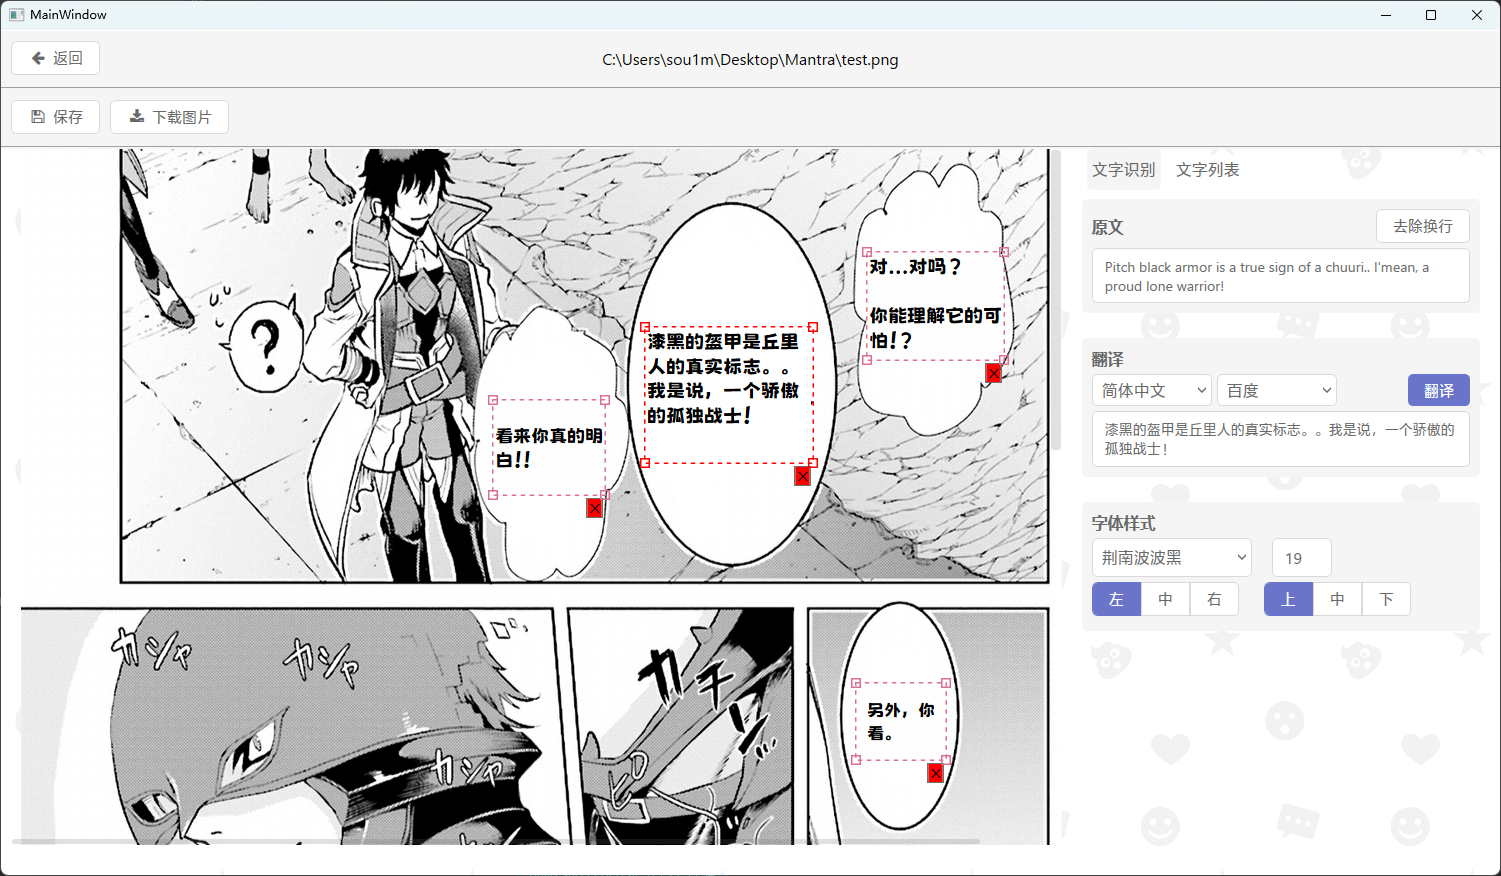
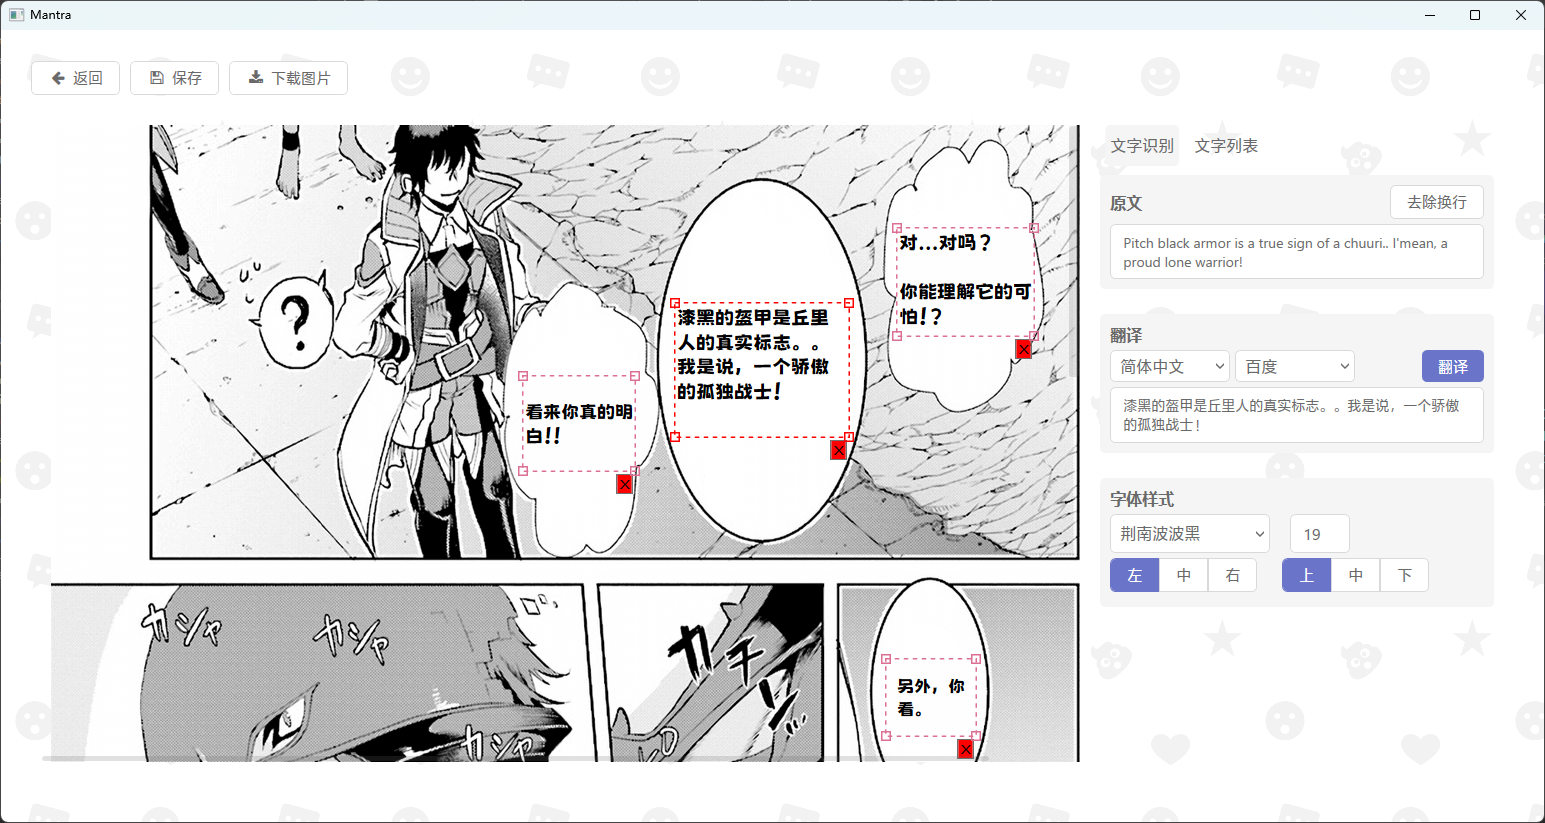
:art: 修改按钮样式

Changed region(s): [[0.0, 0.0608, 0.9807, 0.9721], [0.3984, 0.0608, 0.6129, 0.0911], [0.0, 0.0, 0.0613, 0.0304]]

diff --git a/src/Mantra/Pages/HandlePage.xaml b/src/Mantra/Pages/HandlePage.xaml
@@ -14,46 +14,37 @@
                 d:DesignHeight="450"
                 d:DesignWidth="800">
 
-    <DockPanel LastChildFill="True">
+    <Grid SnapsToDevicePixels="True" Margin="30">
+        <Grid.RowDefinitions>
+            <RowDefinition Height="Auto" />
+            <RowDefinition Height="30 " />
+            <RowDefinition Height="*" />
+        </Grid.RowDefinitions>
 
         <!-- Start: Top Menu -->
-        <StackPanel DockPanel.Dock="Top" ZIndex="1" Background="{StaticResource BackgroundLightBrush}">
-            <Grid SnapsToDevicePixels="True" Margin="10">
-                <Grid.ColumnDefinitions>
-                    <ColumnDefinition Width="Auto" />
-                    <ColumnDefinition Width="*" />
-                </Grid.ColumnDefinitions>
-                <Button Style="{StaticResource IconTextButtonStyle}"
-                        VerticalAlignment="Center"
-                        Content="返回"
-                        Tag="{StaticResource FontAwesomeArrowLeftIcon}"
-                        Command="{Binding GoBackCommand}" />
-                <TextBlock Grid.Column="0"
-                           Grid.ColumnSpan="2"
-                           HorizontalAlignment="Center"
-                           VerticalAlignment="Center"
-                           FontSize="16"
-                           Text="{Binding Filename}" />
-            </Grid>
-            <Separator />
-            <StackPanel SnapsToDevicePixels="True" Orientation="Horizontal" Margin="10">
-                <Button Style="{StaticResource IconTextButtonStyle}"
-                        Margin="0 0 10 0"
-                        Command="{Binding SaveCommand}"
-                        Tag="{StaticResource FontAwesomeSaveIcon}"
-                        Content="保存" />
-                <Button Style="{StaticResource IconTextButtonStyle}"
-                        Margin="0 0 10 0"
-                        Click="DownloadButton_OnClick"
-                        Tag="{StaticResource FontAwesomeDownloadIcon}"
-                        Content="下载图片" />
-            </StackPanel>
-            <Separator />
+        <StackPanel Orientation="Horizontal">
+            <Button Style="{StaticResource IconTextButtonStyle}"
+                    Margin="0 0 10 0"
+                    Content="返回"
+                    Tag="{StaticResource FontAwesomeArrowLeftIcon}"
+                    Command="{Binding GoBackCommand}" />
+
+            <Button Style="{StaticResource IconTextButtonStyle}"
+                    Margin="0 0 10 0"
+                    Command="{Binding SaveCommand}"
+                    Tag="{StaticResource FontAwesomeSaveIcon}"
+                    Content="保存" />
+
+            <Button Style="{StaticResource IconTextButtonStyle}"
+                    Margin="0 0 10 0"
+                    Click="DownloadButton_OnClick"
+                    Tag="{StaticResource FontAwesomeDownloadIcon}"
+                    Content="下载图片" />
         </StackPanel>
         <!-- End: Top Menu -->
 
         <!-- Start: Main Content -->
-        <Grid>
+        <Grid Grid.Row="2">
             <Grid.ColumnDefinitions>
                 <ColumnDefinition Width="5*" />
                 <ColumnDefinition Width="2*" MinWidth="400" />
@@ -670,5 +661,5 @@
             <!-- End: Tool Column -->
         </Grid>
         <!-- End: Main Content -->
-    </DockPanel>
+    </Grid>
 </local:BasePage>

diff --git a/src/Mantra/Pages/CollectionPage.xaml b/src/Mantra/Pages/CollectionPage.xaml
@@ -17,12 +17,12 @@
             <RowDefinition Height="30 " />
             <RowDefinition Height="*" />
         </Grid.RowDefinitions>
-        <StackPanel Orientation="Horizontal" HorizontalAlignment="Left" Margin="10 0">
-            <Button Style="{StaticResource IconTextButtonStyle}"
-                    Tag="{StaticResource FontAwesomeDownloadIcon}"
-                    Command="{Binding ExportCommand}"
-                    Content="导出到目录" />
-        </StackPanel>
+        <Button Style="{StaticResource IconTextButtonStyle}"
+                Tag="{StaticResource FontAwesomeDownloadIcon}"
+                Command="{Binding ExportCommand}"
+                HorizontalAlignment="Left"
+                Margin="10 0"
+                Content="导出到目录" />
 
         <ScrollViewer Grid.Row="2"
                       SnapsToDevicePixels="True "
